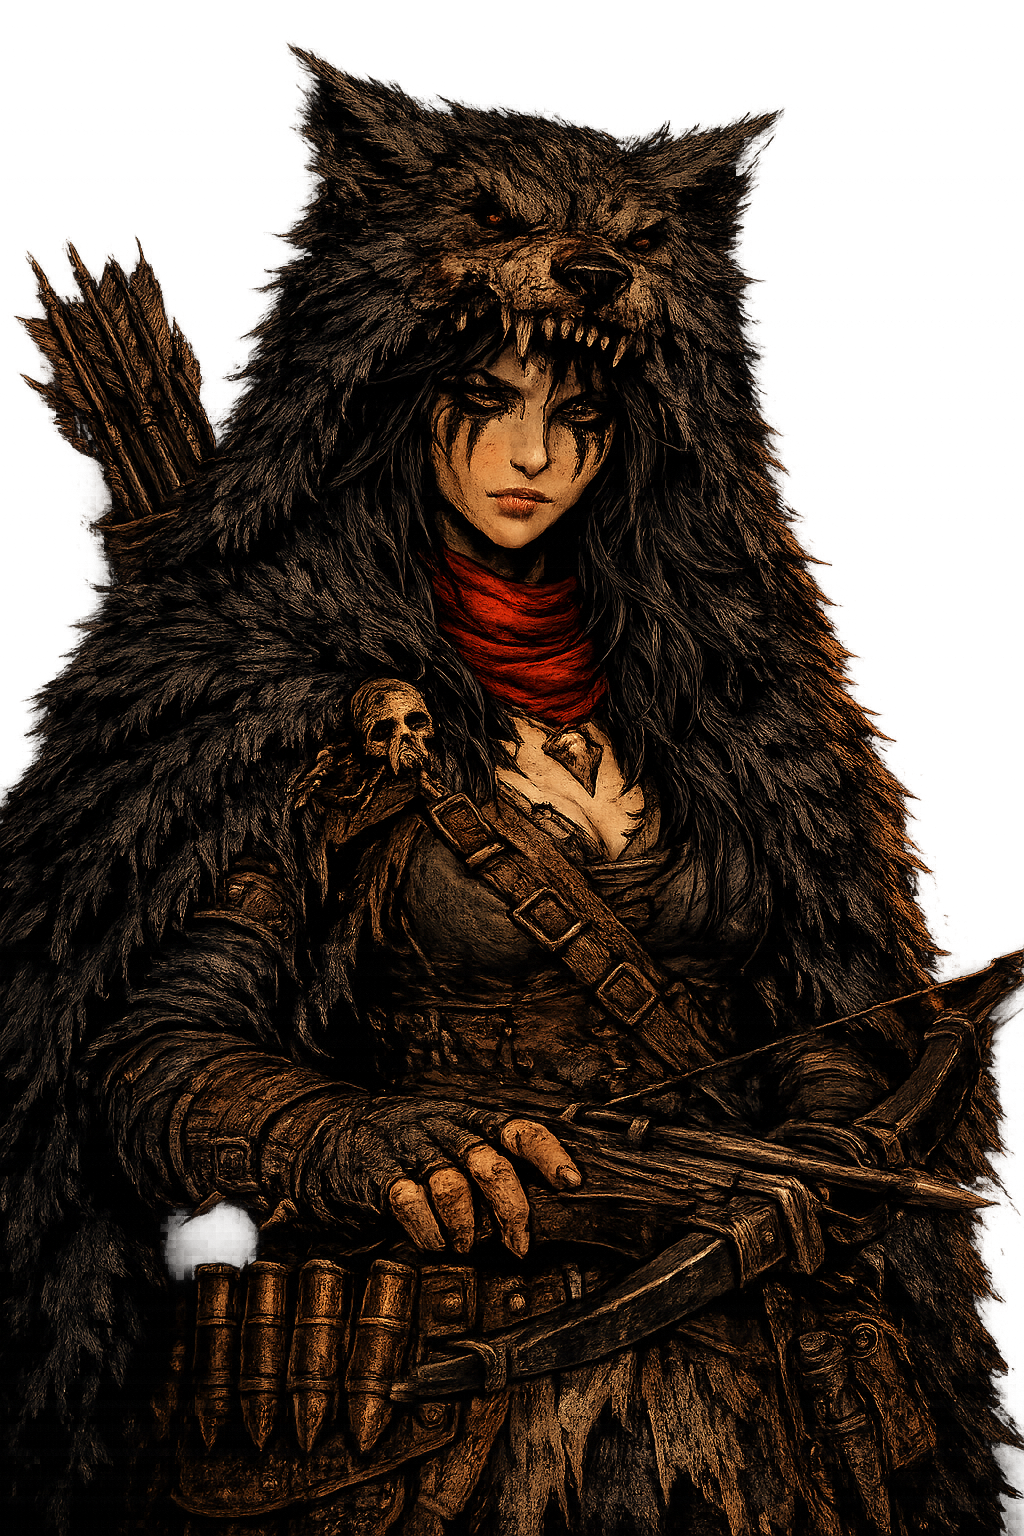
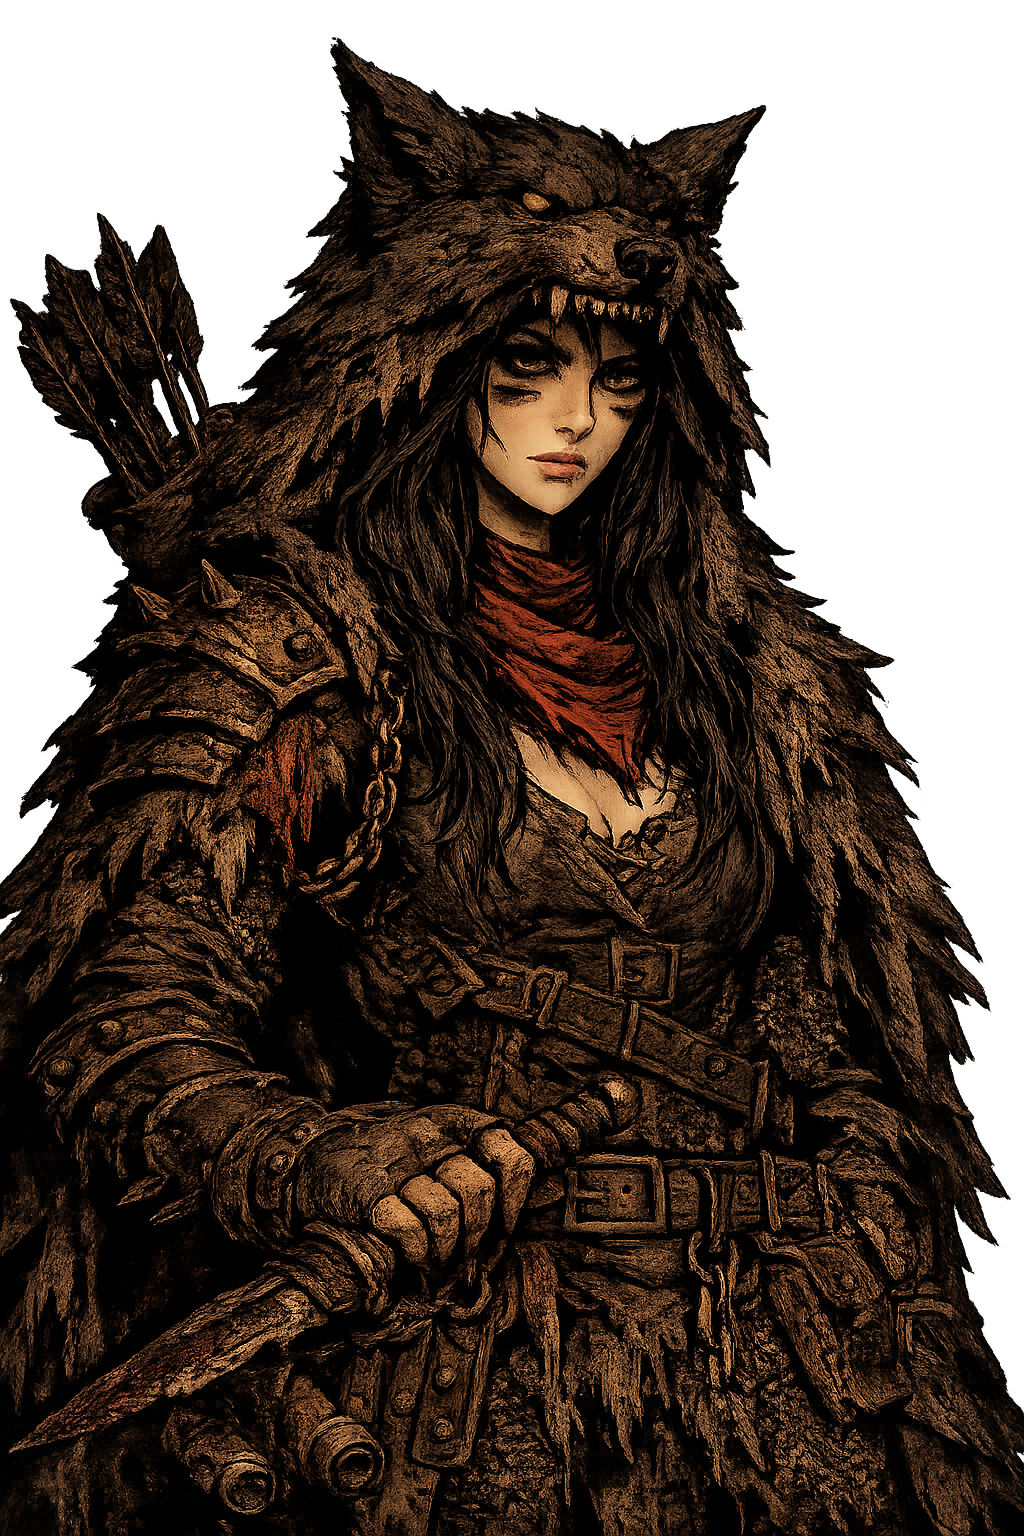
feat: Add new characters

diff --git a/src/config.ts b/src/config.ts
@@ -1,1 +1,1 @@
-export const GAME_VERSION = "0.8.3";
+export const GAME_VERSION = "0.8.4";

diff --git a/README.md b/README.md
@@ -16,7 +16,7 @@
   </tr>
   <tr>
     <td><img src="https://img.shields.io/badge/45%2F47-96%25-green" alt="Coding 96%"></td>
-    <td><img src="https://img.shields.io/badge/68%2F70-97%25-yellow" alt="Art 97%"></td>
+    <td><img src="https://img.shields.io/badge/70%2F70-100%25-yellow" alt="Art 100%"></td>
     <td><img src="https://img.shields.io/badge/36%2F37-94%25-red" alt="Sound 97%"></td>
   </tr>
 </table>
